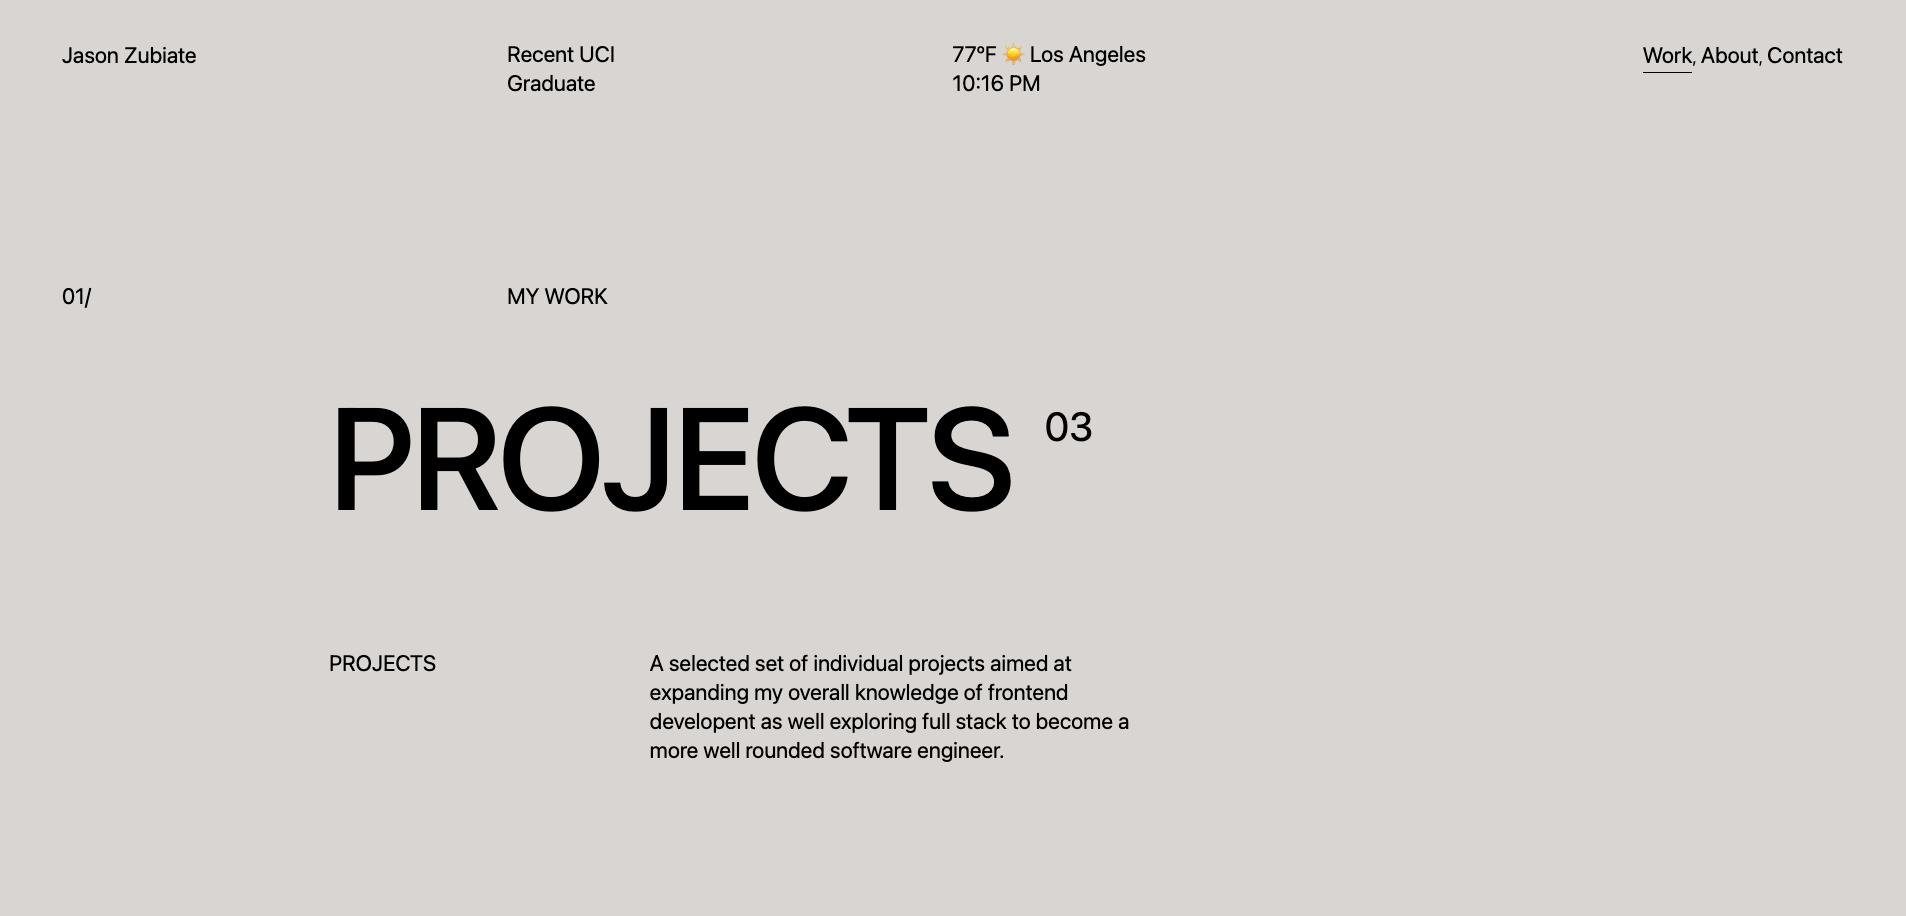
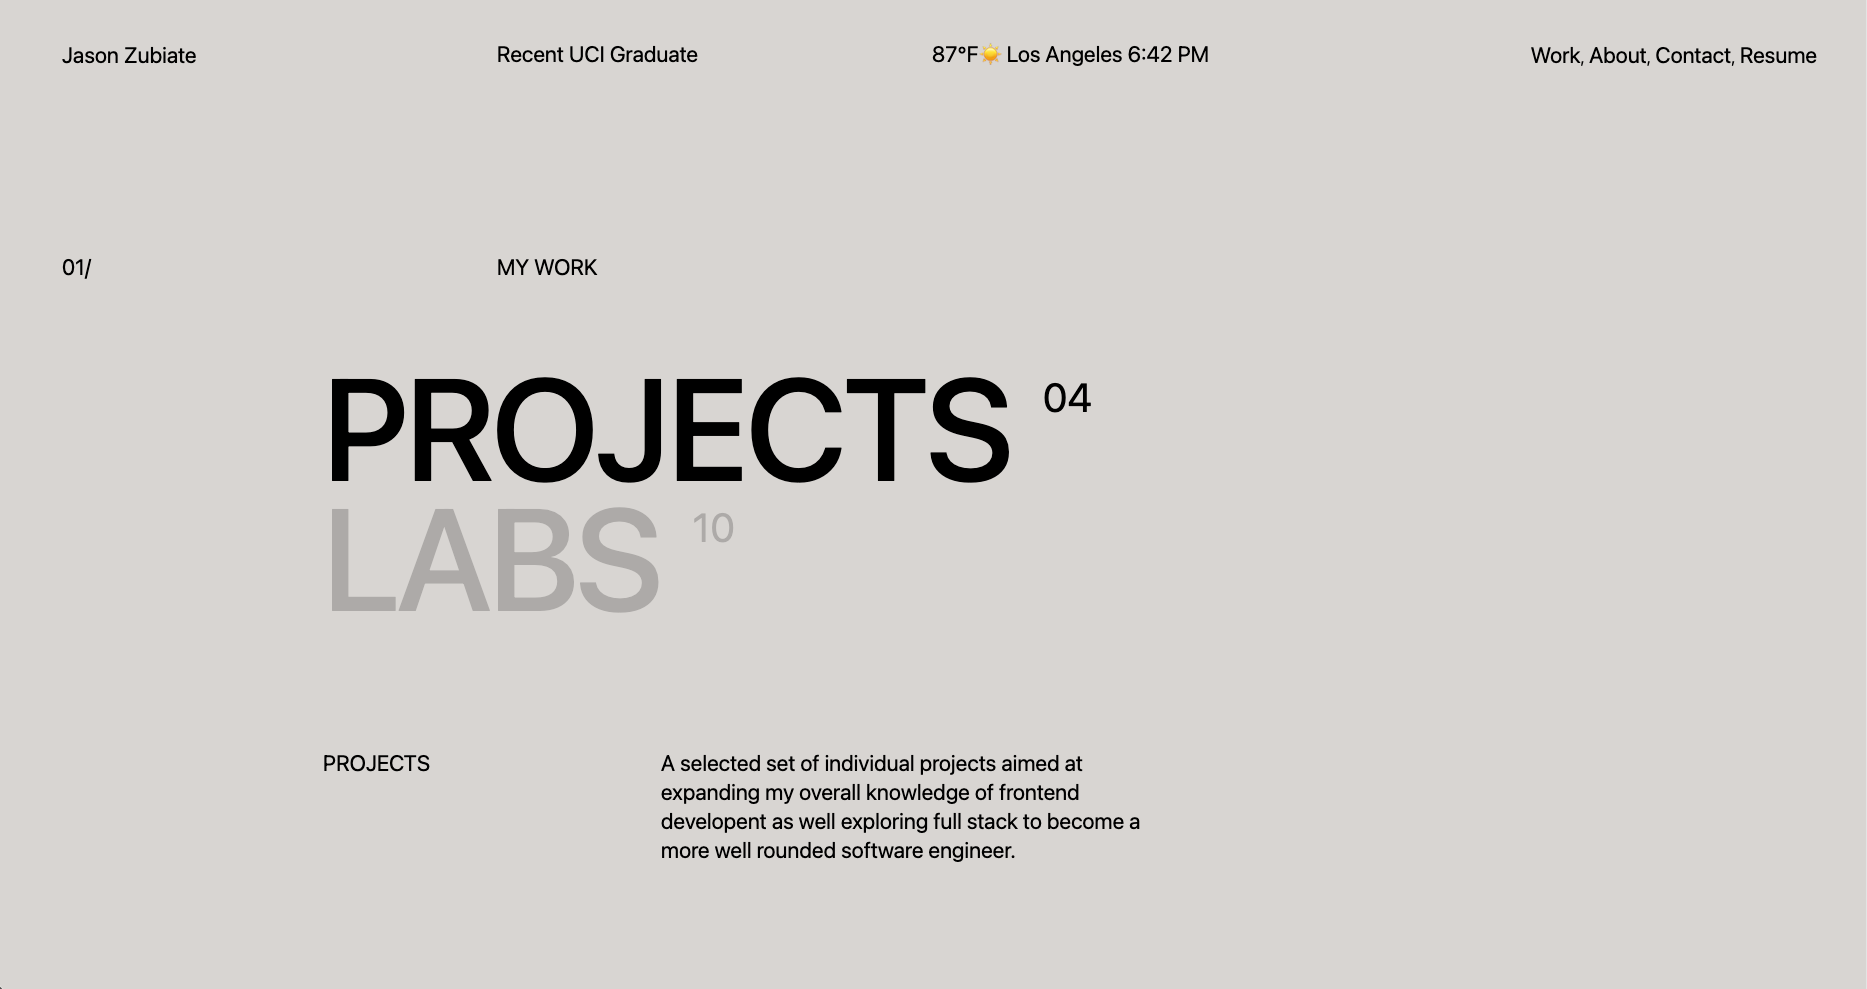
codesandbox

diff --git a/app/work/page.tsx b/app/work/page.tsx
@@ -2,22 +2,25 @@
 
 import {
   Projects,
+  Labs,
   Connect,
   Footer,
   SectionHeader,
   PageHeader,
 } from "@/components";
 import "@/styles/WorkPage.css";
-import { useEffect } from "react";
+import { useEffect, useState } from "react";
 import SplitType from "split-type";
 import { gsap } from "gsap";
 
 export default function Page() {
+  const [selectedWork, setSelectedWork] = useState("projects");
+
   useEffect(() => {
     let tl = gsap.timeline({
       defaults: { ease: "power2", delay: 0.1 },
     });
-    const textLines = document.querySelectorAll(".a1");
+    const textLines = document.querySelectorAll(".a1, .a2");
 
     textLines.forEach((textLine: any) => {
       const split = new SplitType(textLine, {
@@ -31,6 +34,15 @@ export default function Page() {
       stagger: 0.1,
     });
     tl.from(
+      ".a2 .char",
+      {
+        duration: 0.5,
+        yPercent: 100,
+        stagger: 0.1,
+      },
+      0
+    );
+    tl.from(
       ".number",
       {
         duration: 0.5,
@@ -40,7 +52,7 @@ export default function Page() {
       0
     );
     tl.from(
-      ".a2",
+      ".a3",
       {
         duration: 0.5,
         yPercent: 100,
@@ -63,29 +75,83 @@ export default function Page() {
         <PageHeader />
         <div className="content">
           <SectionHeader number={1} title="My Work" />
-          <div className="title-container">
-            <div className="title">
-              <div className="mask">
-                <h1 className="text-2xl uppercase a1">Projects</h1>
-              </div>
-              <div className="mask">
-                <p className="text-l number">04</p>
-              </div>
+          <div className="container">
+            <div className="title-container">
+              <button
+                onClick={() => setSelectedWork("projects")}
+                className="title"
+              >
+                <div className="mask">
+                  <h1
+                    className={`text-2xl uppercase a1 ${
+                      selectedWork !== "projects" ? "opacity-20" : ""
+                    }`}
+                  >
+                    Projects
+                  </h1>
+                </div>
+                <div className="mask">
+                  <p
+                    className={`text-l number ${
+                      selectedWork !== "projects" ? "opacity-20" : ""
+                    }`}
+                  >
+                    04
+                  </p>
+                </div>
+              </button>
+              <button onClick={() => setSelectedWork("labs")} className="title">
+                <div className="mask">
+                  <h1
+                    className={`text-2xl uppercase a2 ${
+                      selectedWork !== "labs" ? "opacity-20" : ""
+                    }`}
+                  >
+                    Labs
+                  </h1>
+                </div>
+                <div className="mask">
+                  <p
+                    className={`text-l number ${
+                      selectedWork !== "labs" ? "opacity-20" : ""
+                    }`}
+                  >
+                    10
+                  </p>
+                </div>
+              </button>
             </div>
-            <div className="info">
-              <div className="mask">
-                <p className="text-m uppercase a2">Projects</p>
+            {selectedWork === "projects" ? (
+              <div className="info">
+                <div className="mask">
+                  <p className="text-m uppercase a3">Projects</p>
+                </div>
+                <p className="text-m description">
+                  A selected set of individual projects aimed at expanding my
+                  overall knowledge of frontend developent as well exploring
+                  full stack to become a more well rounded software engineer.
+                </p>
               </div>
-              <p className="text-m description">
-                A selected set of individual projects aimed at expanding my
-                overall knowledge of frontend developent as well exploring full
-                stack to become a more well rounded software engineer.
-              </p>
-            </div>
+            ) : (
+              <div className="info">
+                <div className="mask">
+                  <p className="text-m uppercase a3">Labs</p>
+                </div>
+                <p className="text-m description">
+                  A collection of user interface and widget challenges using
+                  HTML, CSS, and JavaScript. These are fun to make and allow me
+                  to share design concepts that I like.
+                </p>
+              </div>
+            )}
           </div>
         </div>
       </section>
-      <Projects section={2} />
+      {selectedWork === "projects" ? (
+        <Projects section={2} />
+      ) : (
+        <Labs section={2} />
+      )}
       <Connect section={3} />
       <Footer />
     </div>

diff --git a/components/Labs.tsx b/components/Labs.tsx
@@ -1,0 +1,69 @@
+"use client";
+
+import "@/styles/Projects.css";
+import Image from "next/image";
+import { SectionHeader, CustomButton } from ".";
+import codesandbox from "@/public/assets/img/codesandbox.png";
+
+interface Props {
+  section: number;
+}
+
+function Labs({ section }: Props) {
+  return (
+    <section id="projects">
+      <SectionHeader number={section} title="Labs" />
+      <div className="project-container">
+        <div className="content">
+          <div className="project-info">
+            <h3 className="text-2xl project-title uppercase">
+              <a href="https://codesandbox.io/u/jasonzubiate">
+                CodeSan <br />
+                dbox
+              </a>
+            </h3>
+            <div className="project-other">
+              <p className="text-m project-description uppercase">
+                All of these labs display my knowledge of HTML, CSS, and
+                JavaScript. I incorperate animations in all of my challenges,
+                primarily using{" "}
+                <a href="https://greensock.com/" className="link">
+                  GSAP
+                </a>
+                .
+              </p>
+              <div className="btn-group">
+                <CustomButton
+                  title="CodeSandbox"
+                  textStyles="text-m"
+                  handleClick={() =>
+                    (window.location.href =
+                      "https://codesandbox.io/u/jasonzubiate")
+                  }
+                />
+                <CustomButton
+                  title="Github"
+                  textStyles="text-m"
+                  handleClick={() =>
+                    (window.location.href =
+                      "https://github.com/jasonzubiate/UI-Challenges")
+                  }
+                />
+              </div>
+            </div>
+          </div>
+          <div className="project-img">
+            <Image
+              src={codesandbox}
+              alt="codesandbox_img"
+              className="img"
+              priority
+            />
+          </div>
+        </div>
+      </div>
+    </section>
+  );
+}
+
+export default Labs;

diff --git a/styles/WorkPage.css b/styles/WorkPage.css
@@ -1,7 +1,7 @@
 #work-landing .content {
   margin-top: 7rem;
 }
-#work-landing .content .title-container {
+#work-landing .content .container {
   display: flex;
   flex-direction: column;
   gap: 8rem;
@@ -30,7 +30,7 @@
   #work-landing .content {
     margin-top: 10rem;
   }
-  #work-landing .content .title-container {
+  #work-landing .content .container {
     margin-left: 0;
     gap: 4rem;
     width: 100%;

diff --git a/components/Skills.tsx b/components/Skills.tsx
@@ -34,7 +34,7 @@ function Skills({ section }: Props) {
               </label>
               <p className="text-m skill-list">
                 React, react native, next.js, angular, redux, jest, cypress, gsap,
-                redux, recoil, figma, miro, maze, testflight
+                redux, recoil, figma, miro, vercel, testflight
               </p>
             </div>
             <div className="skill">

diff --git a/components/Projects.tsx b/components/Projects.tsx
@@ -2,8 +2,8 @@
 
 import "@/styles/Projects.css";
 import Image from "next/image";
-import summarease from "@/public/assets/img/summarease.png";
 import portfolio from "@/public/assets/img/portfolio.png";
+import summarease from "@/public/assets/img/summarease.png";
 import promptshare from "@/public/assets/img/promptshare.png";
 import carshowcase from "@/public/assets/img/carshowcase.png";
 

diff --git a/components/Footer.tsx b/components/Footer.tsx
@@ -28,9 +28,9 @@ function Footer() {
             ,{" "}
             <a
               className="text-m hover-link"
-              href="https://dribbble.com/jasonzubiate"
+              href="https://codesandbox.io/u/jasonzubiate"
             >
-              Dribbble
+              CodeSandbox
             </a>
           </span>
         </div>

diff --git a/components/index.ts b/components/index.ts
@@ -11,6 +11,7 @@ import Connect from "./Connect";
 import Footer from "./Footer";
 import NavToggle from "./NavToggle";
 import CustomButton from "./CustomButton";
+import Labs from "./Labs";
 
 export {
   Navbar,
@@ -22,6 +23,7 @@ export {
   Self,
   Skills,
   Projects,
+  Labs,
   About,
   Connect,
   Footer,

diff --git a/styles/Footer.css b/styles/Footer.css
@@ -28,7 +28,7 @@ footer {
     flex-direction: column;
     align-items: flex-start;
     gap: 3rem;
-    margin-bottom: 7rem;
+    margin-bottom: 8rem;
   }
   .footer-left {
     flex-direction: column;
